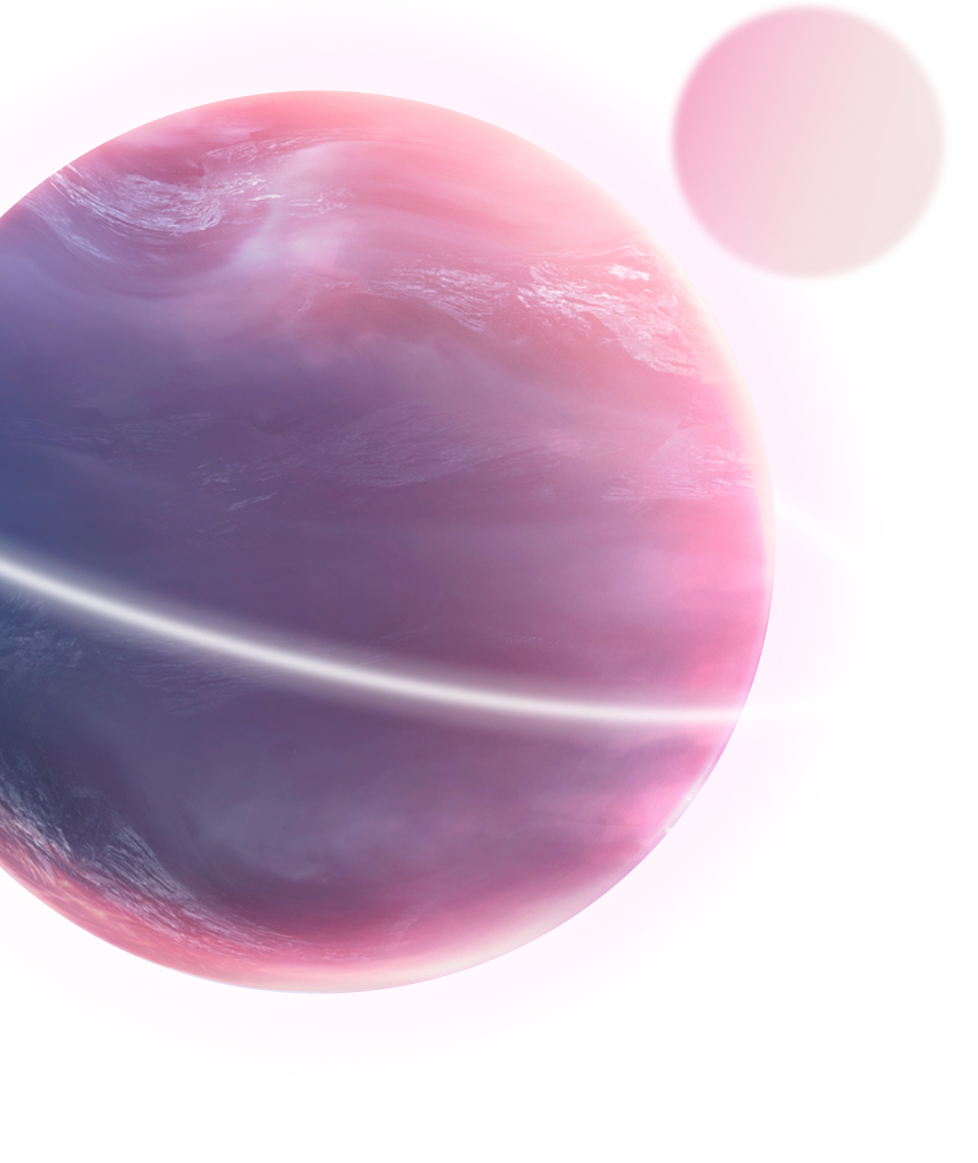
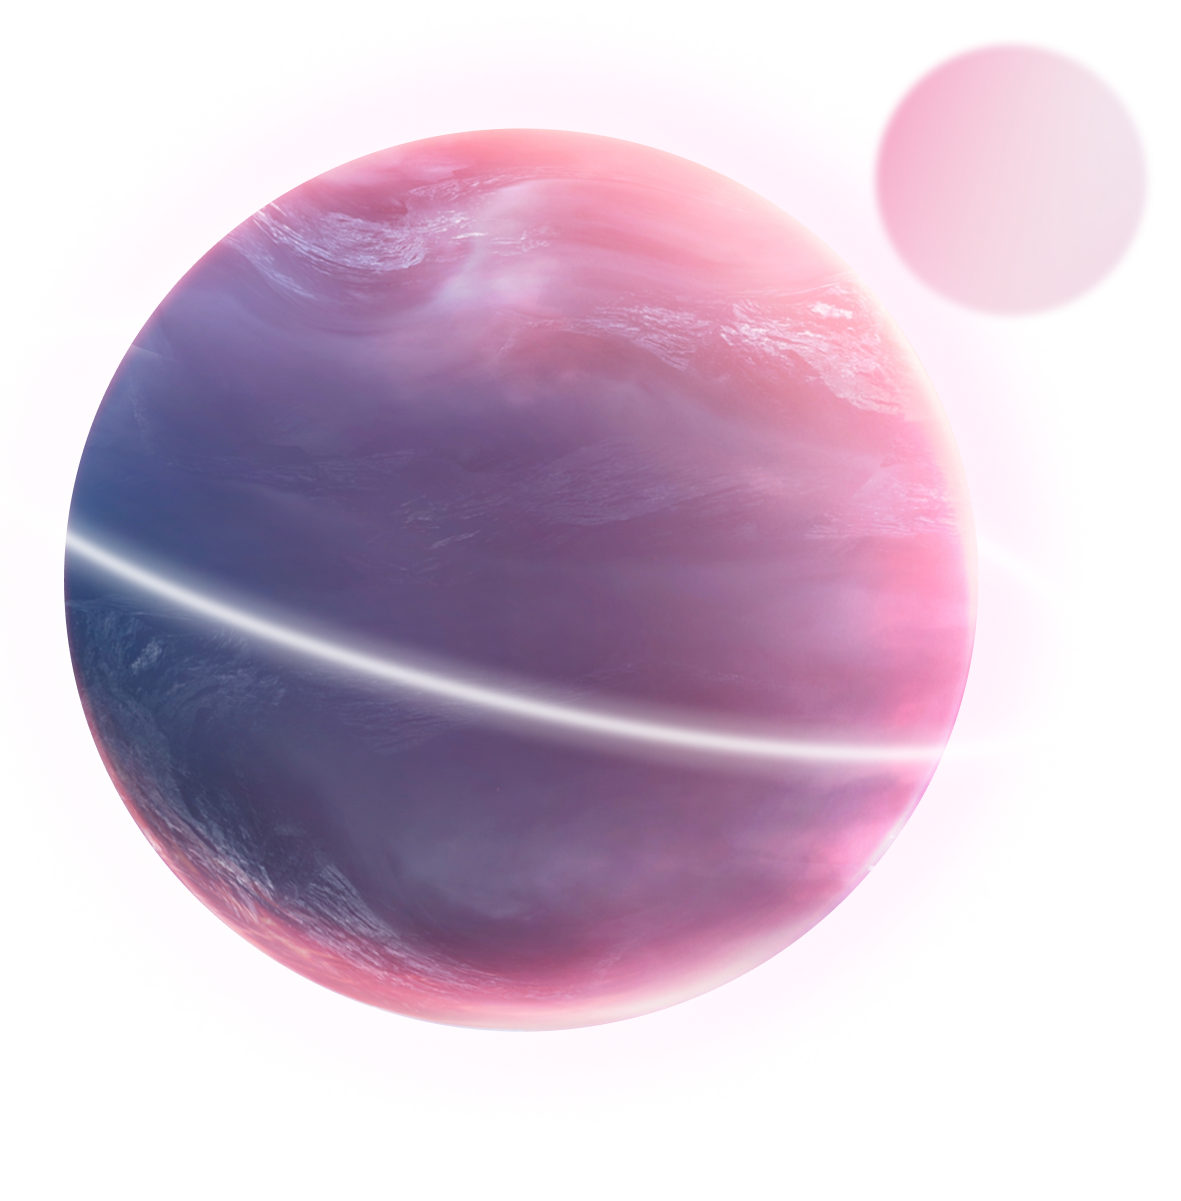
update animate

diff --git a/css/style.css b/css/style.css
@@ -1288,8 +1288,8 @@ body.lock {
   }
 }
 .marketing__image {
-  margin-top: -31px;
-  margin-left: -234px;
+  margin-top: -68px;
+  margin-left: -433px;
   width: 1022px;
   height: 930px;
   z-index: -1;
@@ -1303,8 +1303,19 @@ body.lock {
     height: auto;
   }
 }
+
 .marketing__image img {
-  width: 100%;
+  max-width: inherit;
+}
+@media (max-width: 1350px) {
+  .marketing__image img {
+    max-width: 500px;
+  }
+}
+@media (max-width: 767px) {
+  .marketing__image img {
+    max-width: 400px;
+  }
 }
 .marketing__text {
   font-weight: 400;

diff --git a/en/css/style.css b/en/css/style.css
@@ -1288,8 +1288,8 @@ body.lock {
   }
 }
 .marketing__image {
-  margin-top: -31px;
-  margin-left: -234px;
+  margin-top: -68px;
+  margin-left: -433px;
   width: 1022px;
   height: 930px;
   z-index: -1;
@@ -1303,8 +1303,19 @@ body.lock {
     height: auto;
   }
 }
+
 .marketing__image img {
-  width: 100%;
+  max-width: inherit;
+}
+@media (max-width: 1350px) {
+  .marketing__image img {
+    max-width: 500px;
+  }
+}
+@media (max-width: 767px) {
+  .marketing__image img {
+    max-width: 400px;
+  }
 }
 .marketing__text {
   font-weight: 400;

diff --git a/en/js/script.js b/en/js/script.js
@@ -125,7 +125,7 @@ $(document).ready(function (event) {
       $(".marketing__body").on("touchmove", function(e) {
               var touch = e.originalEvent.touches[0] || e.originalEvent.changedTouches[0];
               var touchcor = touch.pageX;
-              /*$(".marketing__image").css('margin-left', touchcor - $(window).width()/2);*/
+              $(".marketing__image").css('margin-left', touchcor - $(window).width()/2);
 
       });
       $(".surprised").on("touchmove", function(e) {

diff --git a/js/script.js b/js/script.js
@@ -125,7 +125,7 @@ $(document).ready(function (event) {
       $(".marketing__body").on("touchmove", function(e) {
               var touch = e.originalEvent.touches[0] || e.originalEvent.changedTouches[0];
               var touchcor = touch.pageX;
-              /*$(".marketing__image").css('margin-left', touchcor - $(window).width()/2);*/
+              $(".marketing__image").css('margin-left', touchcor - $(window).width()/2);
 
       });
       $(".surprised").on("touchmove", function(e) {

diff --git a/en/index.html b/en/index.html
@@ -11,6 +11,7 @@
 <body>
 <div class="wrapper">
 	<header class="header">
+		<p></p>
 		<div class="b-lang">
 			<a href="en/index.html">En</a>|
 			<a href="../index.html">Rus</a>
@@ -193,7 +194,7 @@
 					</div>
 				</div>
 			</div>
-		</div>color: #4F3A53;
+		</div>
 		<div class="surprised">
 			<div class="surprised__image">
 				<img src="img/surprised/1.png" alt="">

diff --git a/index.html b/index.html
@@ -11,6 +11,7 @@
 <body>
 <div class="wrapper">
 	<header class="header">
+		<p></p>
 		<div class="b-lang">
 			<a href="en/index.html">En</a>|
 			<a href="">Rus</a>
